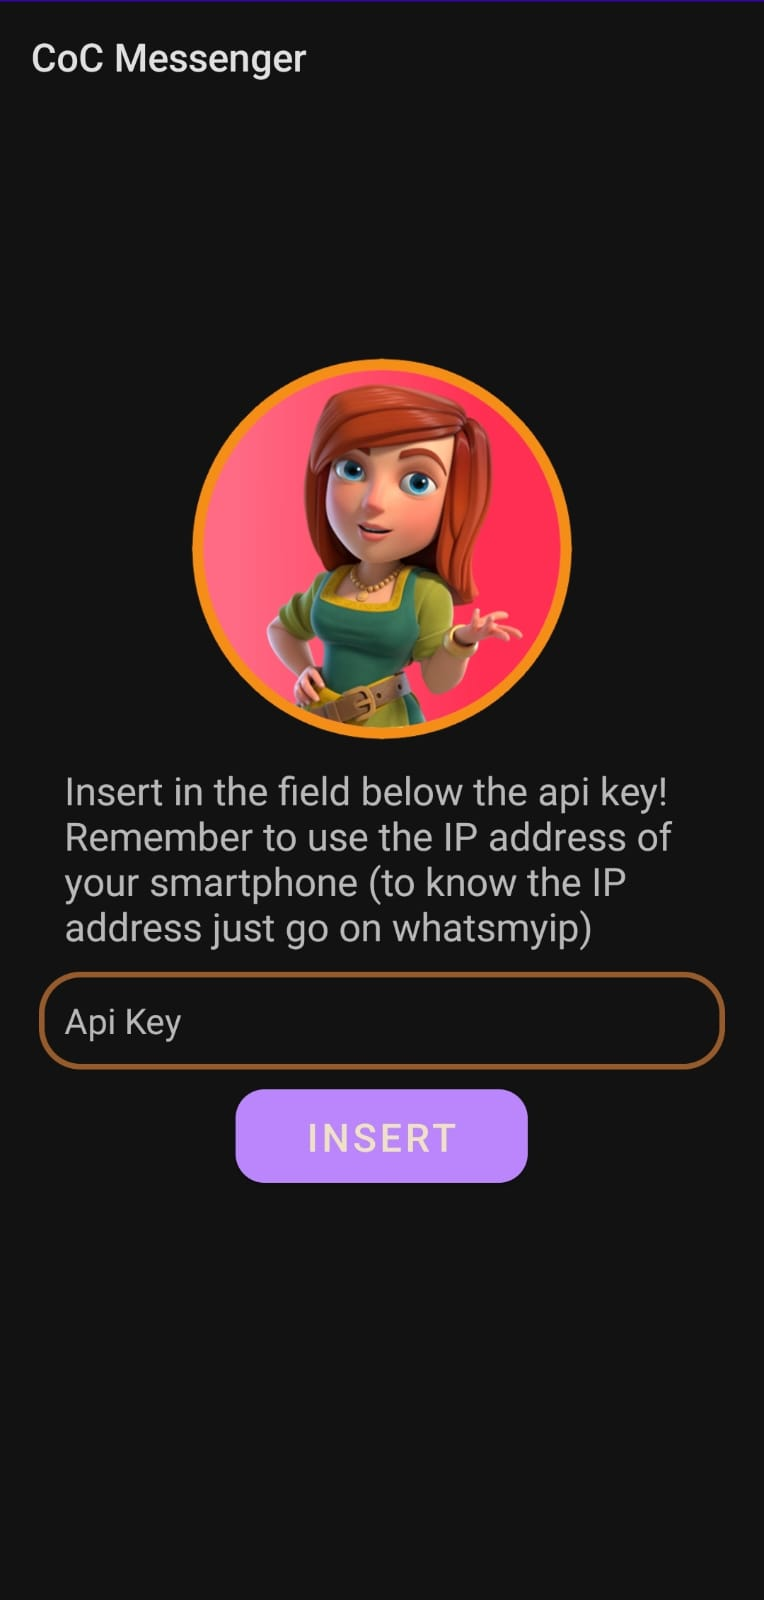
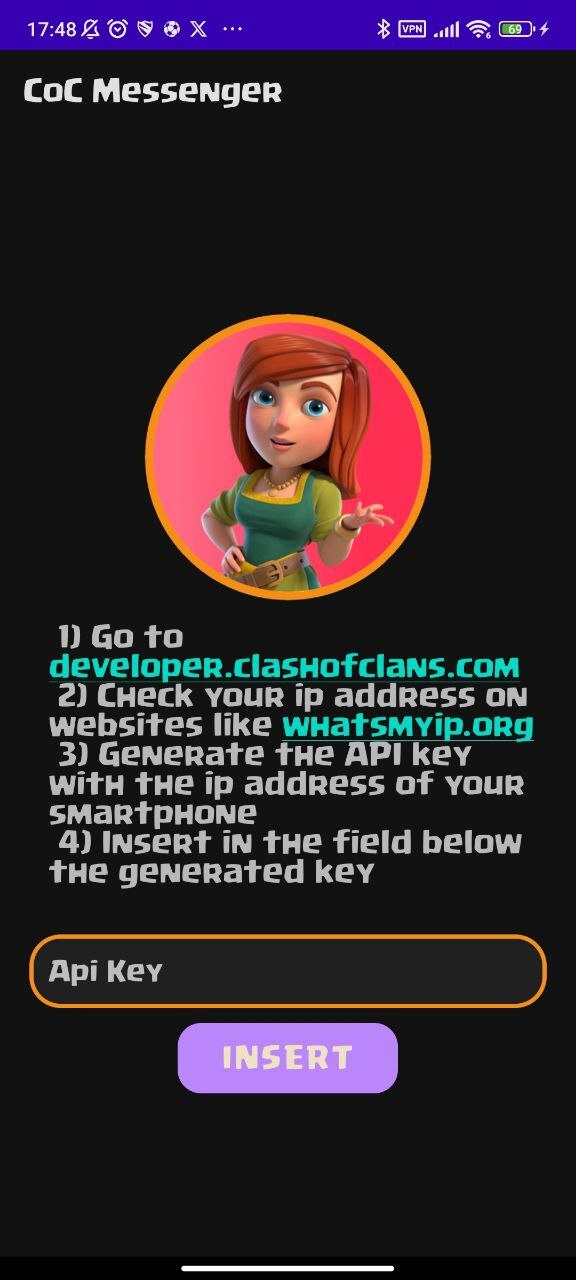
Commit pulizia e riordine MVVM e ultime correzioni visive

diff --git a/lib/view/tutorialPage.dart b/lib/view/tutorialPage.dart
@@ -27,14 +27,14 @@ class _TutorialPageState extends State<TutorialPage> {
     description: "Questa è la descrizione sintetica dell'App...\n" +
         "\nLa versione completa può essere trovata nella tesina in formato .pdf." +
         "\nDurante la creazione del proprio profilo bisogna inserire le corrette credenziali:" +
-        "\n--> Il Tag [combinazione alfanumerica preceduta da <<#>>] può essere trovato " +
+        "\n\n--> Il Tag [combinazione alfanumerica preceduta da <<#>>] può essere trovato " +
         "all'interno del prorpio profilo una volta avviato il gioco " +
         "<<Clash of Clans>> sotto il proprio nickname " +
         "(La prima immagine sottostante mostra dove si trova)." +
         "\n--> Il proprio nome" +
         "\n--> Un'email valida" +
         "\n--> Una Password" +
-        "\nA seguito della creazione del profilo ed eseguito l'accesso bisogna inserire" +
+        "\n\nA seguito della creazione del profilo ed eseguito l'accesso bisogna inserire" +
         "una chiave necessaria ad usare le API di <<Clash of Clans>>." +
         "\nPer far questo bisgna conoscere il proprio indirizzo IP " +
         "(consultabile al primo link evidenziato)." +
@@ -42,9 +42,9 @@ class _TutorialPageState extends State<TutorialPage> {
         "il secondo link evidenziato in blu " +
         "(La seconda immagina mostra la schermata del sito) " +
         "fornendo le seguenti credenziali:" +
-        "\nEmail: ciao@gmail.com" +
-        "\nPassword: voleviEhh" +
-        "\nEntrati nel sito bisogna generare una chiave fornendo il proprio indirizzo IP " +
+        "\n\nEmail: xeros35867@jwsuns.com" +
+        "\n\nPassword: Pr0g_M0b1l3" +
+        "\n\nEntrati nel sito bisogna generare una chiave fornendo il proprio indirizzo IP " +
         "(come mostrato nel video guida)." +
         "\nGenerata la chiave bisogna copia/incollarla all'interno della schermata " +
         "apposita, chiamata <<Api Key>>, e presente nell'hamburger menu " +
@@ -79,22 +79,46 @@ class _TutorialPageState extends State<TutorialPage> {
               tutorial.description,
               style: TextStyle(fontSize: 16),
             ),
-            GestureDetector(
-              onTap: () => _launchURL(tutorial.linkUrl1),
-              child: Row(
-                children: [
-                  Icon(Icons.link),
-                  Text(tutorial.linkText1),
-                ],
+            MouseRegion(
+              cursor: SystemMouseCursors.click,
+              child: GestureDetector(
+                onTap: () => _launchURL(tutorial.linkUrl1),
+                child: Padding(
+                  padding: const EdgeInsets.symmetric(vertical: 8.0),
+                  child: Row(
+                    children: [
+                      Icon(Icons.link, color: Colors.blue),
+                      Text(
+                        tutorial.linkText1,
+                        style: TextStyle(
+                          fontSize: 16,
+                          color: Colors.blue,
+                        ),
+                      ),
+                    ],
+                  ),
+                ),
               ),
             ),
-            GestureDetector(
-              onTap: () => _launchURL(tutorial.linkUrl2),
-              child: Row(
-                children: [
-                  Icon(Icons.link),
-                  Text(tutorial.linkText2),
-                ],
+            MouseRegion(
+              cursor: SystemMouseCursors.click,
+              child: GestureDetector(
+                onTap: () => _launchURL(tutorial.linkUrl2),
+                child: Padding(
+                  padding: const EdgeInsets.symmetric(vertical: 8.0),
+                  child: Row(
+                    children: [
+                      Icon(Icons.link, color: Colors.blue),
+                      Text(
+                        tutorial.linkText2,
+                        style: TextStyle(
+                          fontSize: 16,
+                          color: Colors.blue,
+                        ),
+                      ),
+                    ],
+                  ),
+                ),
               ),
             ),
             Image.asset('lib/images/taglocation.jpeg'),
@@ -103,12 +127,12 @@ class _TutorialPageState extends State<TutorialPage> {
 
 
             SizedBox(height: 16),
-         _controller.value.isInitialized
-            ? AspectRatio(
-             aspectRatio: _controller.value.aspectRatio,
-             child: VideoPlayer(_controller),
-        )
-            : CircularProgressIndicator(),
+            _controller.value.isInitialized
+                ? AspectRatio(
+              aspectRatio: _controller.value.aspectRatio,
+              child: VideoPlayer(_controller),
+            )
+                : CircularProgressIndicator(),
 
             TextButton(
               onPressed: () {
@@ -121,8 +145,8 @@ class _TutorialPageState extends State<TutorialPage> {
                 });
               },
               child: Icon(
-            _controller.value.isPlaying ? Icons.pause : Icons.play_arrow,
-            ),
+                _controller.value.isPlaying ? Icons.pause : Icons.play_arrow,
+              ),
 
             )],
         ),

diff --git a/lib/view/loginPage.dart b/lib/view/loginPage.dart
@@ -3,7 +3,7 @@ import 'package:flutter/material.dart';
 import 'package:my_app_flutter/view-model/components/button.dart';
 import 'package:my_app_flutter/view-model/components/logo.dart';
 import 'package:my_app_flutter/view-model/components/textfield.dart';
-import 'package:my_app_flutter/view/authService.dart';
+import 'package:my_app_flutter/view-model/authService.dart';
 import 'package:my_app_flutter/view/forgotPassword.dart';
 import 'package:my_app_flutter/view/tutorialPage.dart';
 import 'package:provider/provider.dart';
@@ -103,15 +103,18 @@ class _LoginPageState  extends State<LoginPage>{
                             child: Row(
                               mainAxisAlignment: MainAxisAlignment.end,
                               children: [
-                                GestureDetector(
-                                  onTap: (){
-                                    Navigator.push(context,
-                                        MaterialPageRoute(builder: (context) {
-                                          return ForgotPasswordPage();
-                                        }));
-                                  },
-                                  child: Text('Password dimenticata?',
-                                    style: TextStyle(color: Colors.purple),
+                                MouseRegion(
+                                  cursor: SystemMouseCursors.click, // Cursore a forma di mano
+                                  child: GestureDetector(
+                                    onTap: () {
+                                      // Azione da eseguire quando si fa clic sul testo "Password dimenticata"
+                                      Navigator.push(context, MaterialPageRoute(builder: (context) {
+                                        return ForgotPasswordPage();
+                                      }));
+                                    },
+                                    child: Text('Password dimenticata?',
+                                      style: TextStyle(color: Colors.purple),
+                                    ),
                                   ),
                                 ),
                               ],
@@ -137,15 +140,18 @@ class _LoginPageState  extends State<LoginPage>{
                               style: TextStyle(color: Colors.purple),
                             ),
                             const SizedBox(width: 4),
-                            GestureDetector(
+                            MouseRegion(
+                              cursor: SystemMouseCursors.click, // Cursore a forma di mano
+                              child: GestureDetector(
                                 onTap: widget.onTap,
-                                child: const Text(
+                                child: Text(
                                   'Registrati',
                                   style: TextStyle(
                                     color: Colors.indigo,
                                     fontWeight: FontWeight.bold,
                                   ),
-                                )
+                                ),
+                              ),
                             ),
                           ],
                         ),

diff --git a/lib/view/registerPage.dart b/lib/view/registerPage.dart
@@ -4,7 +4,7 @@ import 'package:flutter/material.dart';
 import 'package:my_app_flutter/view-model/components/button.dart';
 import 'package:my_app_flutter/view-model/components/logo.dart';
 import 'package:my_app_flutter/view-model/components/textfield.dart';
-import 'package:my_app_flutter/view/authService.dart';
+import 'package:my_app_flutter/view-model/authService.dart';
 import 'package:my_app_flutter/view/tutorialPage.dart';
 import 'package:provider/provider.dart';
 
@@ -33,10 +33,34 @@ class _RegisterPageState  extends State<RegisterPage> {
       );
     },
     );
+
+    // Controlla se email, nome e password non sono vuoti
+    if (emailController.text.isEmpty ||
+        nameController.text.isEmpty ||
+        passwordController.text.isEmpty ||
+        confirmPasswordController.text.isEmpty) {
+      // Pop il cerchio di caricamento
+      Navigator.pop(context);
+
+      // Mostra un messaggio di errore
+      ScaffoldMessenger.of(context).showSnackBar(
+        SnackBar(
+          content: Text("Tutti i campi devono essere compilati"
+              "\nIl Nick può essere inserito successivamente"),
+        ),
+      );
+      return;
+    }
+
     //controllare se la password è confermata
     if (passwordController.text != confirmPasswordController.text) {
+      // Pop il cerchio di caricamento
+      Navigator.pop(context);
+
+      // Mostra un messaggio di errore
       ScaffoldMessenger.of(context).showSnackBar(
-        const SnackBar(content: Text("Password sbagliata"),
+        SnackBar(
+          content: Text("Password Errata"),
         ),
       );
       return;

diff --git a/lib/view/about.dart b/lib/view/about.dart
@@ -33,7 +33,7 @@ class _AboutPageState extends State<AboutPage> {
             ),
             SizedBox(height: 25), // Spazio tra l'immagine e il testo
             Text(
-              'Progetto di Programmazione Mobile fatto da: \nGabriel Piercecchi \nTosca Pierro \nLorenzo Zulli \nGrazie alle APIs di Clash of Clans', // Inserisci il testo desiderato qui
+              'Progetto di Programmazione Mobile fatto da: \nGabriel Piercecchi \nTosca Pierro \nLorenzo Zulli',
               style: TextStyle(
                 fontSize: 20, // Imposta la dimensione del testo
               ),

diff --git a/lib/main.dart b/lib/main.dart
@@ -3,7 +3,7 @@ import 'package:flutter/material.dart';
 import 'package:firebase_auth/firebase_auth.dart';
 import 'package:flutter/material.dart';
 import 'package:my_app_flutter/view-model/authPage.dart';
-import 'package:my_app_flutter/view/authService.dart';
+import 'package:my_app_flutter/view-model/authService.dart';
 import 'package:provider/provider.dart';
 import 'view/loginPage.dart';
 import 'package:firebase_core/firebase_core.dart';

diff --git a/lib/view/homePage.dart b/lib/view/homePage.dart
@@ -13,7 +13,7 @@ import 'package:my_app_flutter/view/tagPage.dart';
 import 'package:my_app_flutter/view/topPage.dart';
 import 'package:my_app_flutter/view/tutorialPage.dart';
 import 'package:provider/provider.dart';
-import 'package:my_app_flutter/view/authService.dart';
+import 'package:my_app_flutter/view-model/authService.dart';
 import 'package:http/http.dart' as http;
 
 class HomePage extends StatefulWidget {
